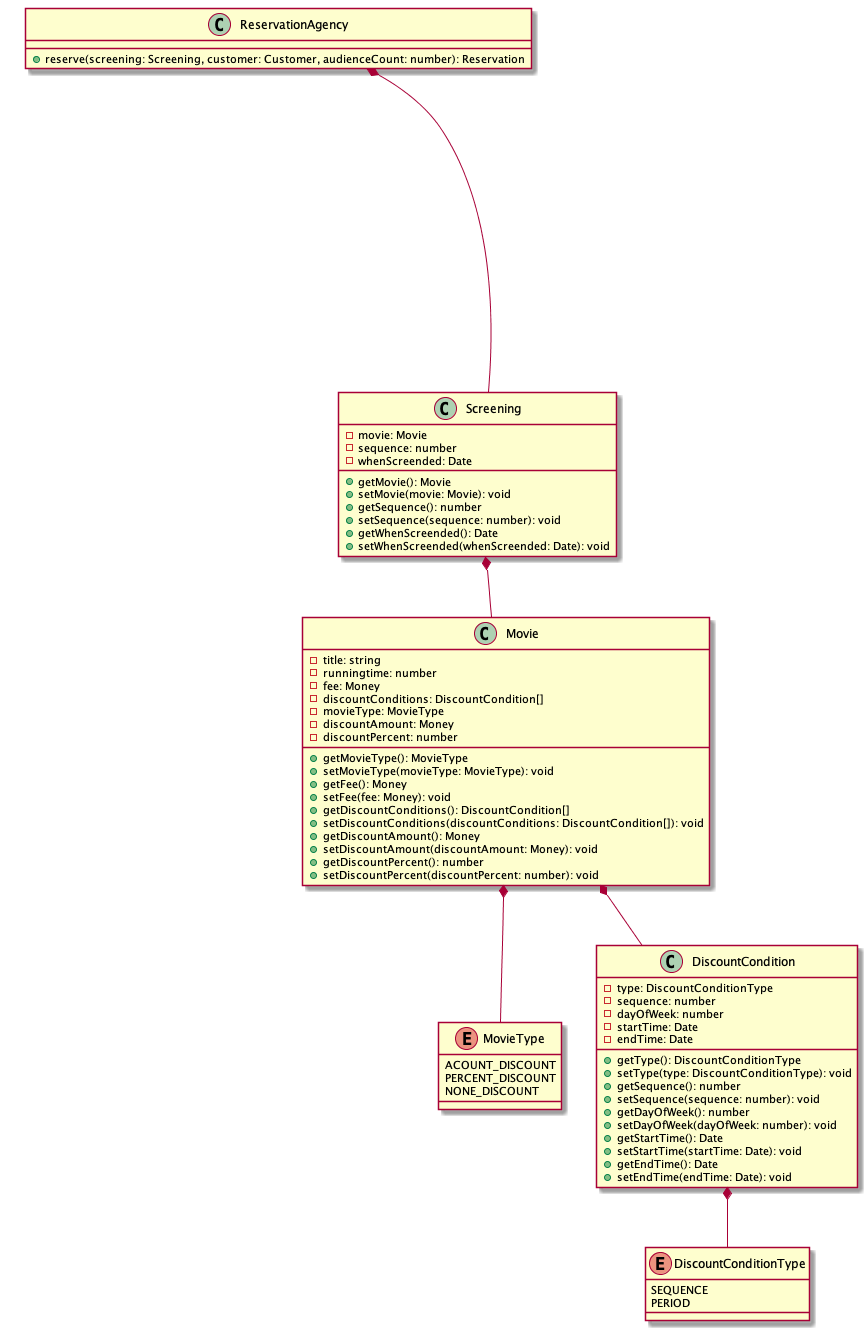
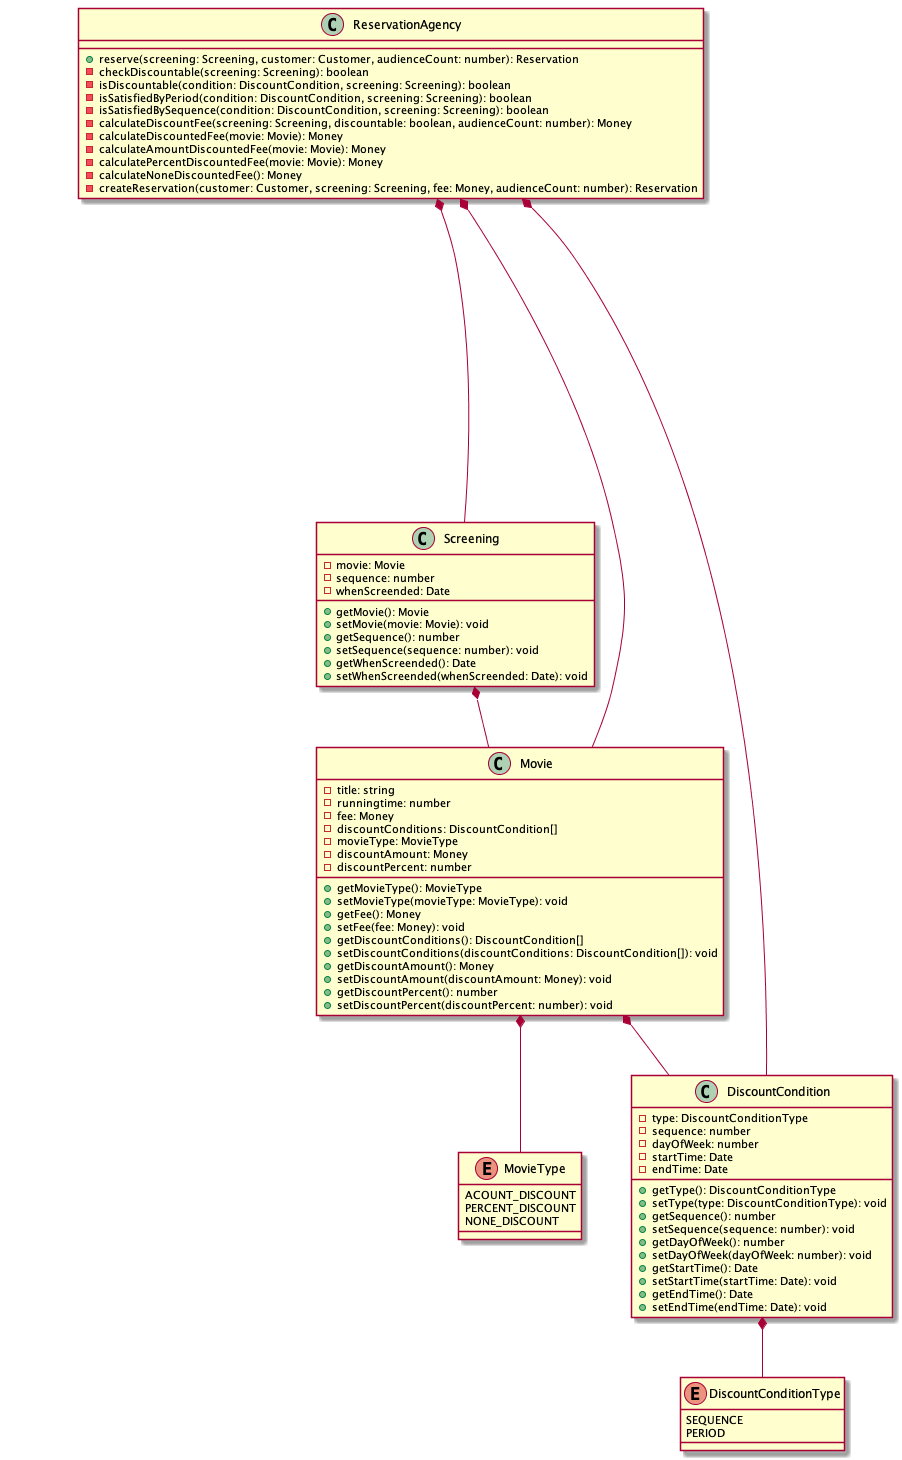
170p

Changed region(s): [[0.3426, 0.2774, 0.9965, 1.0], [0.0311, 0.0, 0.8097, 0.185], [0.5606, 0.185, 0.5917, 0.2158]]

diff --git a/chapter4/ReservationAgency.ts b/chapter4/ReservationAgency.ts
@@ -5,45 +5,82 @@ import { Movie } from './Movie';
 import { DiscountConditionType } from './DiscountConditionType';
 import { Money } from './Money';
 import { MovieType } from './MovieType';
+import { DiscountCondition } from './DiscountCondition';
 
 export class ReservationAgency {
-  // eslint-disable-next-line class-methods-use-this
   reserve(screening: Screening, customer: Customer, audienceCount: number): Reservation {
-    const movie: Movie = screening.getMovie();
+    const discountable: boolean = this.checkDiscountable(screening);
+    const fee: Money = this.calculateDiscountFee(screening, discountable, audienceCount);
+    return this.createReservation(customer, screening, fee, audienceCount);
+  }
 
-    const discountable: boolean = movie.getDiscountConditions().some(condition => {
-      if (condition.getType() === DiscountConditionType.PERIOD) {
-        return (
-          screening.getWhenScreended().getTime() === condition.getDayOfWeek() &&
-          condition.getStartTime() <= screening.getWhenScreended() &&
-          condition.getEndTime() >= screening.getWhenScreended()
-        );
-      }
-      return condition.getSequence() === screening.getSequence();
-    });
+  private checkDiscountable(screening: Screening): boolean {
+    return screening
+      .getMovie()
+      .getDiscountConditions()
+      .some(condition => this.isDiscountable(condition, screening));
+  }
 
-    let fee: Money;
+  private isDiscountable(condition: DiscountCondition, screening: Screening): boolean {
+    if (condition.getType() === DiscountConditionType.PERIOD) {
+      return this.isSatisfiedByPeriod(condition, screening);
+    }
+    return this.isSatisfiedBySequence(condition, screening);
+  }
+
+  private isSatisfiedByPeriod(condition: DiscountCondition, screening: Screening): boolean {
+    return (
+      screening.getWhenScreended().getTime() === condition.getDayOfWeek() &&
+      condition.getStartTime() <= screening.getWhenScreended() &&
+      condition.getEndTime() >= screening.getWhenScreended()
+    );
+  }
+
+  private isSatisfiedBySequence(condition: DiscountCondition, screening: Screening): boolean {
+    return condition.getSequence() === screening.getSequence();
+  }
+
+  private calculateDiscountFee(screening: Screening, discountable: boolean, audienceCount: number): Money {
     if (discountable) {
-      let discountAmount: Money = Money.ZERO;
-      switch (movie.getMovieType()) {
-        case MovieType.ACOUNT_DISCOUNT:
-          discountAmount = movie.getDiscountAmount();
-          break;
-        case MovieType.PERCENT_DISCOUNT:
-          discountAmount = movie.getFee().times(movie.getDiscountPercent());
-          break;
-        case MovieType.NONE_DISCOUNT:
-          discountAmount = Money.ZERO;
-          break;
-        default:
-          break;
-      }
-
-      fee = movie.getFee().minus(discountAmount);
-    } else {
-      fee = movie.getFee();
+      return screening
+        .getMovie()
+        .getFee()
+        .minus(this.calculateDiscountedFee(screening.getMovie()))
+        .times(audienceCount);
     }
 
+    return screening
+      .getMovie()
+      .getFee()
+      .times(audienceCount);
+  }
+
+  private calculateDiscountedFee(movie: Movie): Money {
+    switch (movie.getMovieType()) {
+      case MovieType.ACOUNT_DISCOUNT:
+        return this.calculateAmountDiscountedFee(movie);
+      case MovieType.PERCENT_DISCOUNT:
+        return this.calculatePercentDiscountedFee(movie);
+      case MovieType.NONE_DISCOUNT:
+        return this.calculateNoneDiscountedFee();
+      default:
+        return this.calculateNoneDiscountedFee();
+    }
+  }
+
+  private calculateAmountDiscountedFee(movie: Movie): Money {
+    return movie.getDiscountAmount();
+  }
+
+  private calculatePercentDiscountedFee(movie: Movie): Money {
+    return movie.getFee().times(movie.getDiscountPercent());
+  }
+
+  private calculateNoneDiscountedFee(): Money {
+    return Money.ZERO;
+  }
+
+  private createReservation(customer: Customer, screening: Screening, fee: Money, audienceCount: number) {
     return new Reservation(customer, screening, fee, audienceCount);
   }
 }

diff --git a/.eslintrc.js b/.eslintrc.js
@@ -79,7 +79,9 @@ module.exports = {
     'no-empty-function': 'error',
     'no-magic-numbers': 'warn',
     'max-classes-per-file': 'off',
-    'import/no-default-export': 'error'
+    'import/no-default-export': 'error',
+
+    'class-methods-use-this': 'off'
   },
 
   overrides: [
